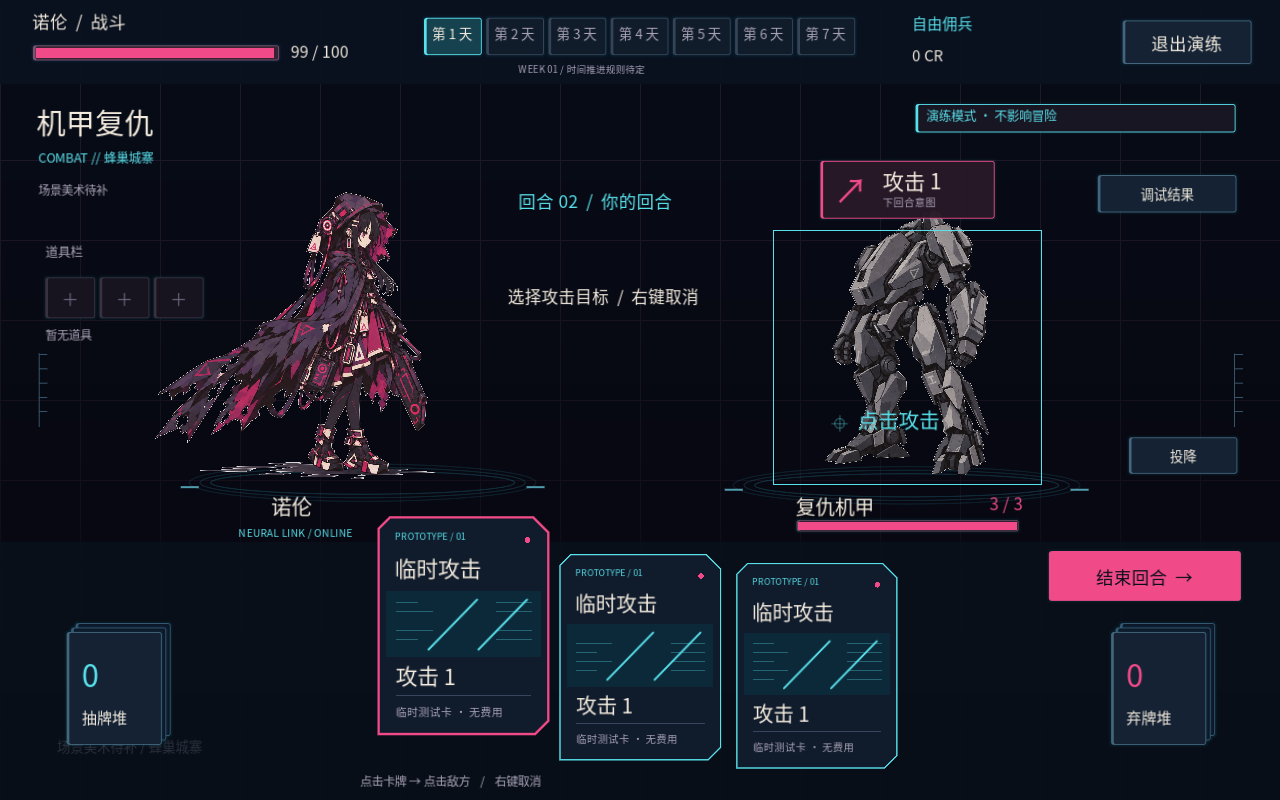
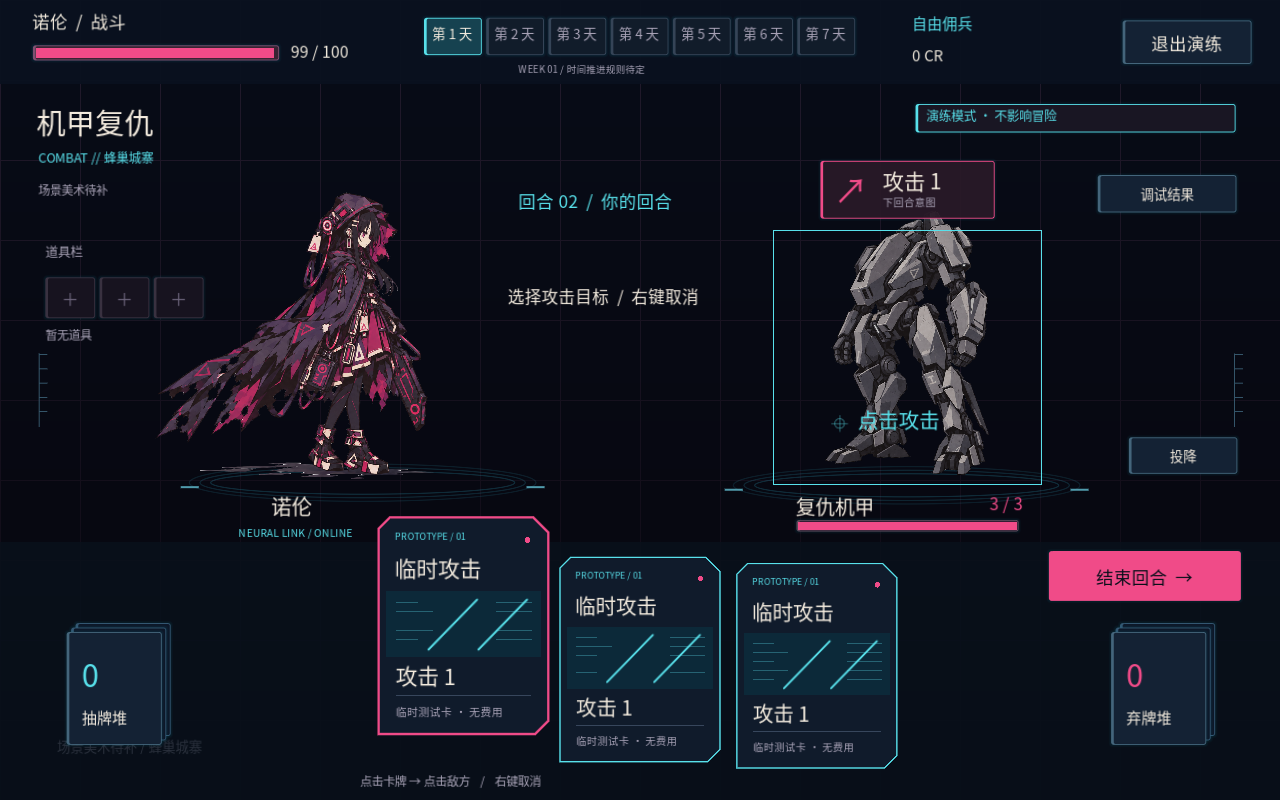
修改1

Changed region(s): [[0.4375, 0.6875, 0.5625, 0.8438], [0.4375, 0.875, 0.5625, 0.9688]]

diff --git a/README.md b/README.md
@@ -83,4 +83,4 @@ godot --path . res://tests/r1_visual.tscn
 
 本轮通过原剧情 **690** 项检查与新增战斗／血量／存档 **191** 项检查；图形集成验证覆盖抽弃牌、重复点击、自然胜负、双向转场、缺图、治疗与演练隔离。实际窗口也验证了鼠标选牌、指定目标和结束回合。
 
-所有原始美术和 Word 文档均未改动。工程使用素材副本；白底战斗图仅在运行时去白，正式透明 PNG 到位后可关闭 `whiteKey`。项目内附 Noto Sans CJK SC 字体及 SIL OFL 许可。
+所有原始美术和 Word 文档均未改动。工程使用素材副本；对白与战斗白底立绘共用去白着色器，按邻域颜色恢复边缘透明度并消除白底混色，避免缩放后出现浅色轮廓。原图保持不变；正式透明战斗 PNG 到位后可关闭 `whiteKey`。项目内附 Noto Sans CJK SC 字体及 SIL OFL 许可。
